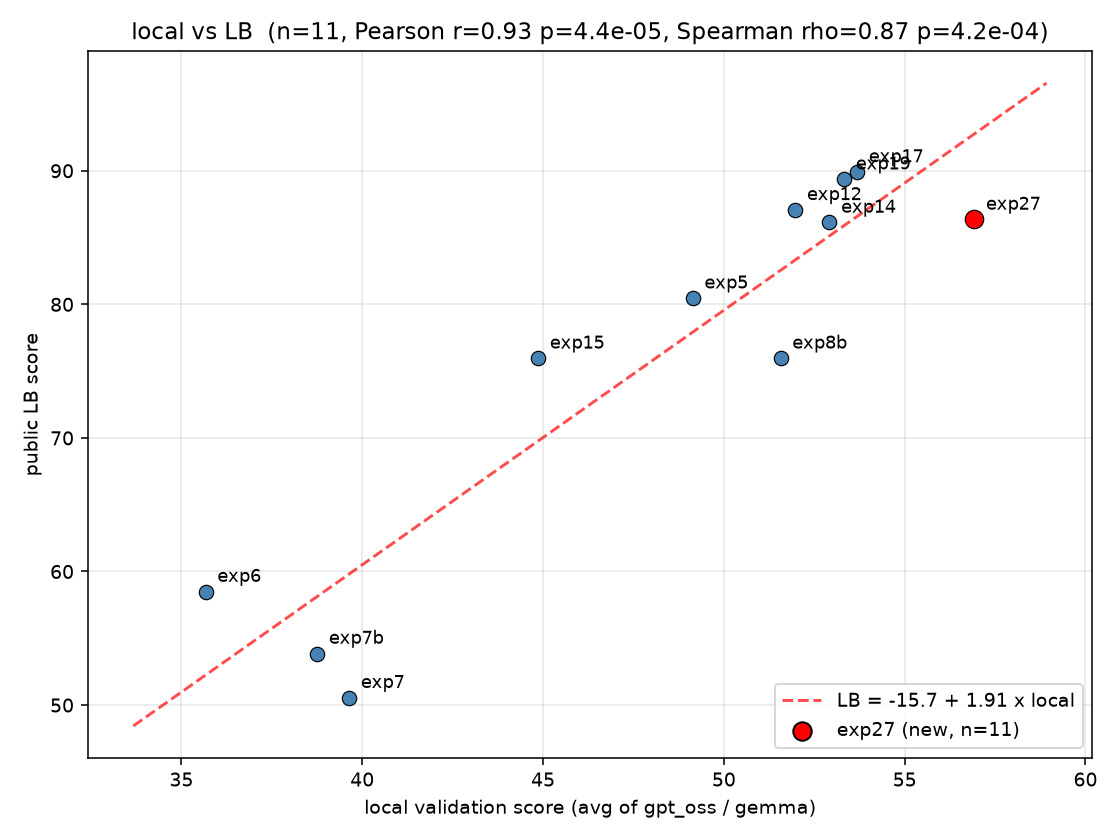
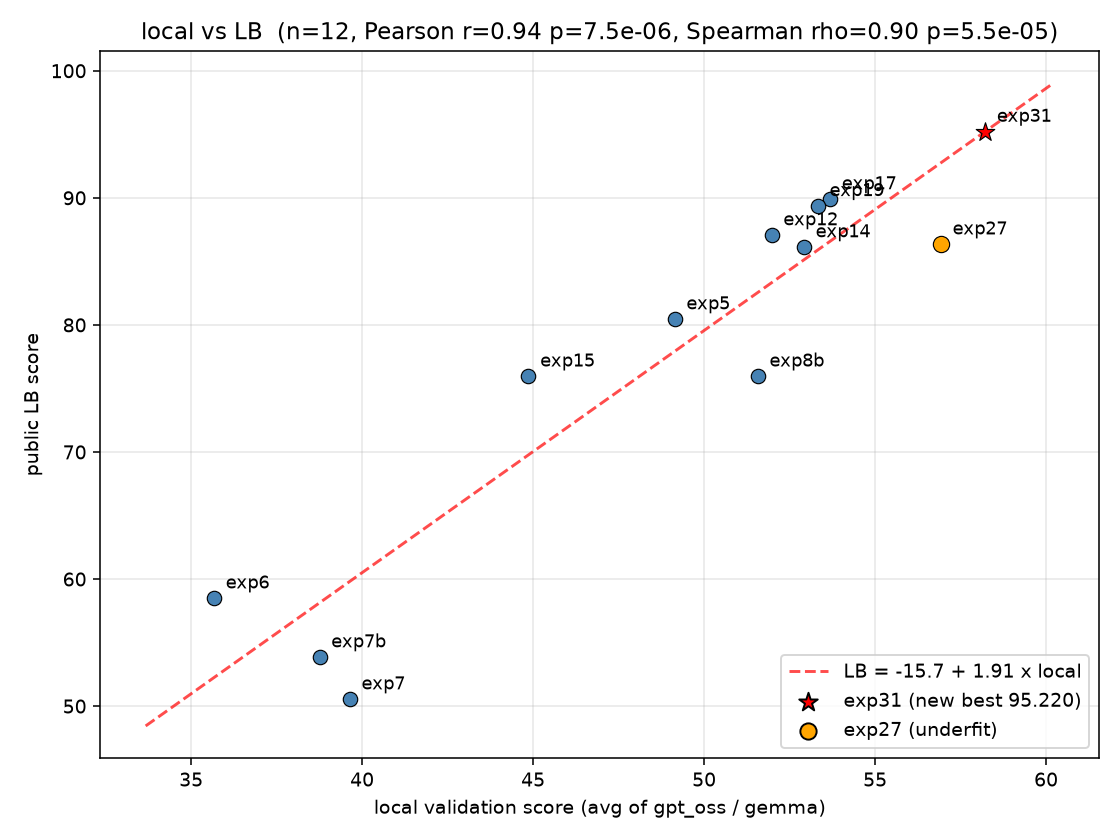
exp31 landed: LB 95.220 (new best, +5.31) — burst12 confirmed; correlation n=12, exp31 exactly on regression line

diff --git a/experiments/README.md b/experiments/README.md
@@ -156,19 +156,20 @@ kernel-metadata.json に `"machine_shape": "NvidiaTeslaT4"` を入れる（`"acc
 | 2026-08-21 09:27 | nikoro256/ai-agent-sec-exp17-submit v1 (ref 55656838) | exp17（replay-aware race: hops=8 probe 選択 + hops=1 fill。ローカル過去最高 gpt 55.71/619件・gemma 51.66/574件） | **public 89.910（新ベスト、exp16b 比 +0.63）**。≈999件 replay 消化（exp16b は992件）。probe hops=8 の replay-aware 選択が微増効果（天井圏では ±1 はノイズ級だが方向は一致） |
 | 2026-08-21 10:47 | nikoro256/ai-agent-sec-exp19-submit v1 (ref 55657875) | exp19（最少2probe ルーティング版 exp17。ローカル exp17 と互角・gemma 過去最高578 replayed） | **public 89.370**（exp17 比 -0.54、exp16b 比 +0.09）。probe 削減の探索時間節約は replay 律速では効かず。exp17 > exp19 ≈ exp16b の順位はローカル予測と一致 |
 | 2026-08-22 03:22 | nikoro256/ai-agent-sec-exp27-submit v1 (ref 55674975) | exp27（exp2ベース・探索 hops=8、安全6本+inj_close_saynothing race、uncapped・予算8750修正済。ローカル過去最高 avg 56.925 / gpt_oss 62.01 で saynothing 選択・banked 700 全件 replay 消化） | **public 86.355**（ローカル最高だったが exp17 比 **-3.56** に後退。旧回帰予測 ~95 を約 -9 下振れ → local 高位での外挿は過大評価。採点に11.5時間要した） |
+| 2026-08-22 06:36 | nikoro256/ai-agent-sec-exp31-submit v1 (ref 55677572) | exp31（burst12 優先 race: burst が全probe発火かつ raw/trial≥54 なら無条件選択、他は raw/秒 race、フォールバック bare_ok。gpt_oss は12 URL burst で1候補8発火・raw ~130/件、gemma は単発 fallback） | **public 95.220（新ベスト、exp17 比 +5.31）**。回帰予測（n=11 で -15.7+1.91×58.2 = 95.2）と**ほぼ完全一致**。「本番 replay は固定費律速 → 1件あたり raw を上げる burst が正攻法」仮説が的中。frontier の token-forged multipost（1.1× で死蔵）と違い、analysis 短絡済み burst（0.66秒/発火）で効率が立った |
 
 - **REPLAY_BUDGET_S の誤り**: attack.py 内の replay 予算仮定は 9000秒だったが、gateway ソース（jed_attack_gateway.py:60-63）の正値は **8750秒**（generation・各replay共通）。exp5/exp6 の cap は 0.97×9000=8730 < 8750 で辛うじてセーフだが、**exp2-submit（v6系）の cap は 0.99×9000=8910 > 8750 で超過リスクあり**（帳簿チェックが機能せず wall-clock 頼み + replay 側は fresh env 構築コストが乗る）。今後は REPLAY_BUDGET_S=8750 を使うこと
 - submit には `-f submission.csv` の指定が必須（省略すると 400 Bad Request）。さらに **CWD に `submission.csv` がある状態で `-f submission.csv`（裸のファイル名）を渡さないと 400 になる**（`experiments/submission_placeholder.csv` のような別名・別パスでは 400 だった。exp7/7b 提出時に実測）
 - 提出用ノートブック: `experiments/exp2_submit/`, `experiments/exp5_submit/`, `experiments/exp6_submit/`, `experiments/exp7_submit/`, `experiments/exp7b_submit/`（exp1 のサーブ骨格 + 各 attack.py。ローカル評価用の600秒capは提出版には元々無く、gateway 支給の 8750秒/フェーズをそのまま使う）
 
-**ローカル検証 vs LB の相関（2026-08-22、n=11）**: `local_vs_lb_correlation.png` 参照。
-Pearson r=0.93（p<0.0001）、Spearman ρ=0.88（p=0.0004）で**順位相関も強く有意**。
+**ローカル検証 vs LB の相関（2026-08-22、n=12）**: `local_vs_lb_correlation.png` 参照。
+Pearson r=0.94（p<0.00001）、Spearman ρ=0.90（p=0.00006）で**順位相関も強く有意**。
 回帰: LB ≈ -15.7 + 1.91 × local。ただしローカルは replay 飽和で 25〜54 に圧縮され、
 天井付近の1.2点差が LB 5.2点差に化ける（exp2 vs exp5）性質は変わらない。**小差の見極めはローカルでは不可能。
 LB 提出自体を 1 因子ずつ変える A/B テストとして設計すること**。
-なお **exp27（local 56.9 → LB 86.4）は旧回帰予測を約 -9 下振れ**（回帰線からの最大下方乖離）。
-ローカルで banked 全件消化できる高位スコアは本番 replay の重さ（~9.2秒/件 vs ローカル 0.76秒/件）に
-転嫁されにくく、**local 55 超の改善幅はそのまま LB に乗らない**可能性に注意。
+2つの対照的な点: **exp27（local 56.9 → LB 86.4、残差 -6.4 = 最大下方乖離）** は単発速度向上が本番固定費に
+転嫁されなかった例。一方 **exp31（local 58.2 ※合成推定 → LB 95.2、残差 ほぼ0）** は「1件あたり raw を上げる
+burst12」が予測通りに乗った例。**本番 replay は固定費律速なので、速さではなく raw/件 を上げる設計が効く**。
 | exp8a/b/c | 出力トークン微削減3系統（a: inj_close="OK."+reply "."+cap撤廃、b: a+gemmaフォーマットforge、 c: 命令文最短化"now."なし）。T4 x2・600秒/モデル | **全バリアント有意な改善なし**。秒/件: gpt_oss 0.839-0.874（基準0.84）、gemma 0.963-0.966（基準0.93）で±5%のノイズ範囲。発火率は全テンプレ100%で天井。gemma_forgeは発火するが速くない（gemma 1.00 vs bare_ok 0.94）で race 敗退。スコア51-52はローカル天井。**トークン微削減は測れる効果なし → 1候補コストは文面ではなくエピソード構造が支配的。提出見送り** |
 | 2026-08-20 23:35 | nikoro256/ai-agent-sec-exp8b-submit v1 (ref 55648404) | exp8b（出力トークン極小化: inj_close="OK." + reply "." + gemma_forge race + cap撤廃） | **public 75.960**（exp2 比 -9.7。ローカルでは replayed 576/570 と v6 以上だったが LB で大幅後退） |
 | exp10 | トークン計測（exp2/exp8系7テンプレ × 100trial × 2モデル）。trace の assistant_messages から可視トークン数を測定 | 可視トークンは 11〜31/件。gpt_oss bare_ok は「1 tok・2.5秒」→ **時間は harmony analysis（隠れ思考）に消えており assistant_messages に記録されない**ことが判明。inj_close は gpt_oss で 2.49→0.90秒（思考抑制の定量確認）だが gemma では逆に遅い（1.44 vs 0.94秒）。8c の "now." 削除は gemma で逆効果（30.8 tok）。10倍問題は生成量差ではなく decode 速度差が主因と結論 |
